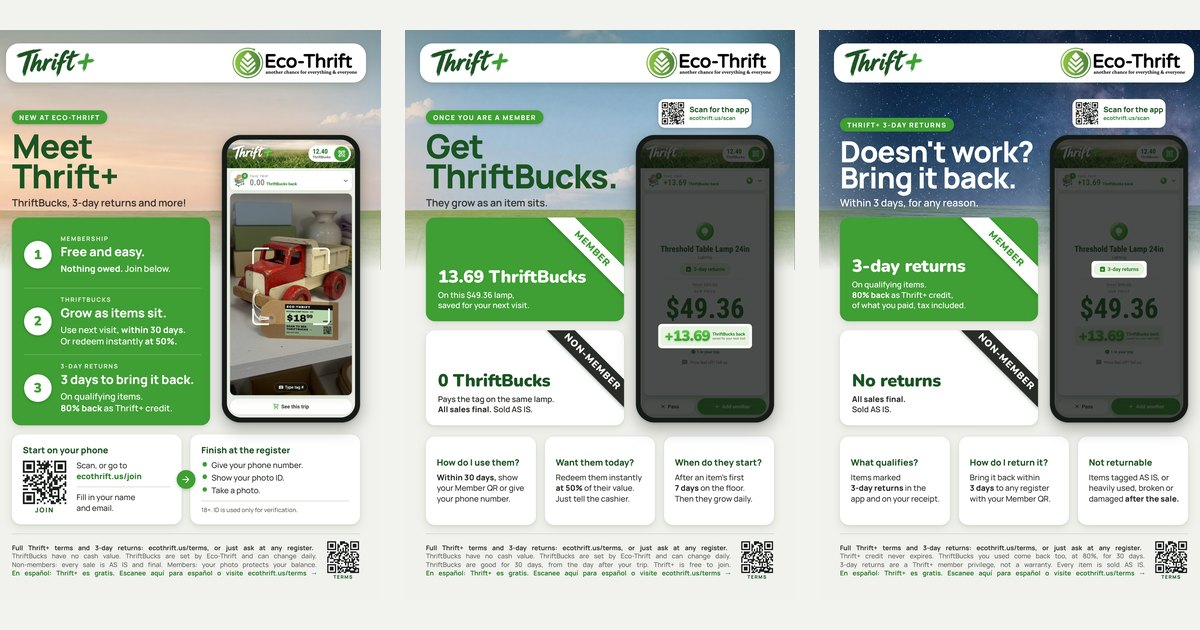
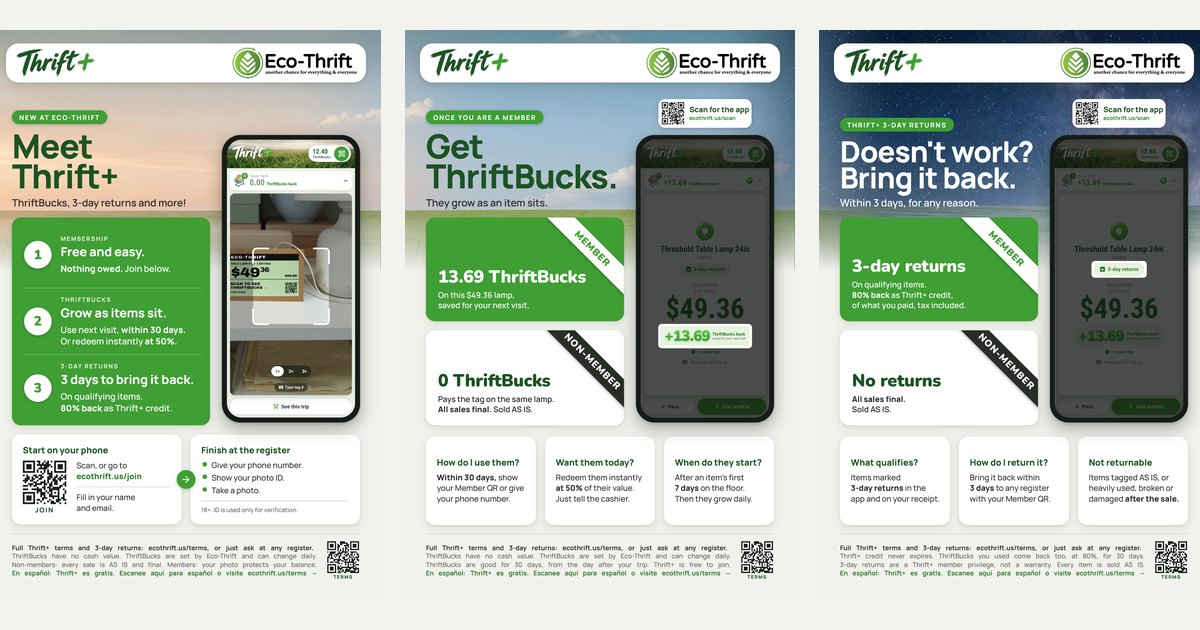
v2.170.1 — The Thrift+ app stays upright when a phone is tilted, and ecothrift.us/account pages load directly
User-facing theme: **The Thrift+ app stays upright when a phone is tilted, and ecothrift.us/account pages load directly (Bill, 2026-10-15).** thrift_plus Phase 4 (app); outside initiatives (website).

### Fixed

- **The scanner stays in portrait:** turning a phone sideways no longer re-lays the app out. The page turns itself back so it stays fixed to the phone, like a portrait-locked app (camera preview and swipes included); the home-screen app asks the phone to lock portrait too. Tablets and computers are unchanged.
- **ecothrift.us/account pages** (sign-in, history, messages) load directly and on refresh; before, an old Shopify redirect sent every /account address to the home page. Shopify's old /account/login and /register now open the sign-in, and /account/orders and /addresses the account page.
- **What is Thrift+? and the home band** show the final posters (poster 1 now scans the Threshold lamp's label) and the new phone picture.

Changed region(s): [[0.185, 0.3016, 0.3083, 0.6333]]

diff --git a/frontend/src/pages/thriftplus/scanner/portraitLock.ts b/frontend/src/pages/thriftplus/scanner/portraitLock.ts
@@ -1,0 +1,78 @@
+/**
+ * The scanner stays upright on the phone (owner 2026-10-15: "customers tilt phone to scan and it reorients, it's a
+ * mess"). A web page in a browser tab can't lock its orientation, so when a phone is turned sideways the page turns
+ * itself back by the same angle: it looks and behaves like a portrait-locked app, camera preview included. The
+ * home-screen app also asks the phone to lock portrait (and its manifest says portrait).
+ *
+ * Only phones turn (a touch screen with a short side under 600 px); tablets and computers are left alone. The angle
+ * comes from the screen, never the viewport, so the on-screen keyboard can't trigger it.
+ */
+import { useEffect, useState } from 'react';
+
+/** How far the page turns back (CSS degrees, clockwise): 0 upright, -90 or 90 when the phone is sideways. */
+export type Turn = 0 | 90 | -90;
+
+let current: Turn = 0;
+
+/** The page's turn for a screen angle (0, 90, 180 or 270; iOS also -90) on a phone. */
+export function turnFor(angle: number, phone: boolean): Turn {
+  if (!phone) return 0;
+  const a = ((angle % 360) + 360) % 360;
+  if (a === 90) return -90;
+  if (a === 270) return 90;
+  return 0;
+}
+
+function screenAngle(): number {
+  const so = typeof screen !== 'undefined' ? screen.orientation : undefined;
+  if (so && typeof so.angle === 'number') return so.angle;
+  const legacy = (window as Window & { orientation?: number }).orientation;
+  if (typeof legacy === 'number') return legacy;
+  return typeof screen !== 'undefined' && screen.width > screen.height ? 90 : 0;
+}
+
+function isPhone(): boolean {
+  if (typeof window === 'undefined' || typeof screen === 'undefined') return false;
+  const coarse = window.matchMedia?.('(pointer: coarse)').matches ?? false;
+  return coarse && Math.min(screen.width, screen.height) < 600;
+}
+
+/** The turn now, kept current by `usePortraitTurn` (pointer math reads it). */
+export function currentTurn(): Turn {
+  return current;
+}
+
+/**
+ * A pointer's position in the page's own (upright) frame, so swipes measured left/right still mean the phone's
+ * left/right while the page is turned. Only the difference between two positions matters.
+ */
+export function localPoint(e: { clientX: number; clientY: number }, turn: Turn = current): { x: number; y: number } {
+  if (turn === -90) return { x: -e.clientY, y: e.clientX };
+  if (turn === 90) return { x: e.clientY, y: -e.clientX };
+  return { x: e.clientX, y: e.clientY };
+}
+
+export function usePortraitTurn(): Turn {
+  const [turn, setTurn] = useState<Turn>(() => (current = turnFor(screenAngle(), isPhone())));
+  useEffect(() => {
+    const update = () => {
+      current = turnFor(screenAngle(), isPhone());
+      setTurn(current);
+    };
+    const so = screen.orientation;
+    so?.addEventListener?.('change', update);
+    window.addEventListener('orientationchange', update);
+    window.addEventListener('resize', update);
+    // The home-screen app can lock for real (browsers refuse it in a tab; that's fine, the turn covers it).
+    const standalone = window.matchMedia?.('(display-mode: standalone)').matches;
+    const lockable = so as (ScreenOrientation & { lock?: (o: string) => Promise<void> }) | undefined;
+    if (standalone && lockable?.lock) lockable.lock('portrait').catch(() => undefined);
+    return () => {
+      so?.removeEventListener?.('change', update);
+      window.removeEventListener('orientationchange', update);
+      window.removeEventListener('resize', update);
+      current = 0;
+    };
+  }, []);
+  return turn;
+}

diff --git a/frontend/src/pages/thriftplus/scanner/tripUi.tsx b/frontend/src/pages/thriftplus/scanner/tripUi.tsx
@@ -4,6 +4,7 @@
  * quantity control. The look is the scanner's own (scannerTheme.tsx).
  */
 import { useEffect, useRef, useState, type PointerEvent as ReactPointerEvent } from 'react';
+import { localPoint } from './portraitLock';
 import { Box, ButtonBase } from '@mui/material';
 import AddRounded from '@mui/icons-material/AddRounded';
 import AssignmentReturnRounded from '@mui/icons-material/AssignmentReturnRounded';
@@ -262,14 +263,14 @@ export function SwipeRow({ children, onRemove, label, onTap }: { children: React
       </Box>
       <Box
         onPointerDown={(e) => {
-          drag.current = { id: e.pointerId, x: e.clientX, y: e.clientY, on: false };
+          drag.current = { id: e.pointerId, x: localPoint(e).x, y: localPoint(e).y, on: false };
         }}
         onPointerMove={(e) => {
           const d = drag.current;
           if (!d || d.id !== e.pointerId) return;
-          const mx = e.clientX - d.x;
+          const mx = localPoint(e).x - d.x;
           if (!d.on) {
-            if (Math.abs(mx) < 10 || Math.abs(mx) < Math.abs(e.clientY - d.y)) return;
+            if (Math.abs(mx) < 10 || Math.abs(mx) < Math.abs(localPoint(e).y - d.y)) return;
             d.on = true;
             setDragging(true);
             e.currentTarget.setPointerCapture(e.pointerId);
@@ -319,14 +320,14 @@ export function useSwipe(onAdd: (() => void) | null, onPass: () => void) {
   };
   const handlers = {
     onPointerDown: (e: ReactPointerEvent<HTMLDivElement>) => {
-      if (!leaving) drag.current = { id: e.pointerId, x: e.clientX, y: e.clientY, on: false };
+      if (!leaving) drag.current = { id: e.pointerId, x: localPoint(e).x, y: localPoint(e).y, on: false };
     },
     onPointerMove: (e: ReactPointerEvent<HTMLDivElement>) => {
       const d = drag.current;
       if (!d || d.id !== e.pointerId) return;
-      const mx = e.clientX - d.x;
+      const mx = localPoint(e).x - d.x;
       if (!d.on) {
-        if (Math.abs(mx) < 10 || Math.abs(mx) < Math.abs(e.clientY - d.y)) return;
+        if (Math.abs(mx) < 10 || Math.abs(mx) < Math.abs(localPoint(e).y - d.y)) return;
         d.on = true;
         setDragging(true);
         e.currentTarget.setPointerCapture(e.pointerId);

diff --git a/frontend/src/pages/thriftplus/scanner/ThriftPlusScannerPage.tsx b/frontend/src/pages/thriftplus/scanner/ThriftPlusScannerPage.tsx
@@ -16,14 +16,16 @@ import { isOpen, setPreviewCode, type SignInPurpose } from '../../../api/thriftP
 import { ResetPasswordScreen } from './AccountScreens';
 import { SignInScreen } from './SignInScreen';
 import { TripScanner } from './TripScanner';
-import { UNIT_CSS, sc, useScannerFonts } from './scannerTheme';
+import { UNIT_CSS, UNIT_CSS_TURNED, sc, useScannerFonts } from './scannerTheme';
 import { installScannerHead } from './installApp';
+import { usePortraitTurn } from './portraitLock';
 import { loadDetector } from './useQrCamera';
 import { useSignIn, useThriftPlusSession } from './useThriftPlus';
 
 const TYPE_ONLY_KEY = 'tp-type-only';
 
 export default function ThriftPlusScannerPage() {
+  const turn = usePortraitTurn();
   useScannerFonts();
   const [pageParams, setPageParams] = useSearchParams();
   const resetToken = pageParams.get('reset');
@@ -102,15 +104,18 @@ export default function ThriftPlusScannerPage() {
         bgcolor: '#e6e7e1',
         display: 'flex',
         justifyContent: 'center',
-        '--u': UNIT_CSS,
+        overflow: 'hidden',
+        '--u': turn ? UNIT_CSS_TURNED : UNIT_CSS,
       }}
     >
       <Box
+        data-turn={turn}
         sx={{
-          position: 'relative',
-          width: '100%',
-          maxWidth: 480,
-          height: '100dvh',
+          // A sideways phone: the page turns back so it stays upright on the phone (owner 2026-10-15).
+          ...(turn
+            ? { position: 'absolute', top: '50%', left: '50%', width: 'min(100dvh, 480px)', height: '100vw',
+                transform: `translate(-50%, -50%) rotate(${turn}deg)` }
+            : { position: 'relative', width: '100%', maxWidth: 480, height: '100dvh' }),
           overflow: 'hidden',
           display: 'flex',
           flexDirection: 'column',

diff --git a/frontend/src/pages/thriftplus/scanner/portraitLock.test.ts b/frontend/src/pages/thriftplus/scanner/portraitLock.test.ts
@@ -1,0 +1,27 @@
+import { describe, expect, it } from 'vitest';
+import { localPoint, turnFor } from './portraitLock';
+
+describe('the scanner stays upright on a sideways phone (owner 2026-10-15)', () => {
+  it('turns the page back by the screen angle on phones only', () => {
+    expect(turnFor(0, true)).toBe(0);
+    expect(turnFor(180, true)).toBe(0);
+    expect(turnFor(90, true)).toBe(-90);
+    expect(turnFor(270, true)).toBe(90);
+    expect(turnFor(-90, true)).toBe(90); // older iPhones say -90
+    expect(turnFor(90, false)).toBe(0); // tablets and computers are left alone
+  });
+
+  it("measures swipes in the phone's own left and right while turned", () => {
+    // Turned -90: the phone's "right" is the screen's "up".
+    const a = localPoint({ clientX: 100, clientY: 300 }, -90);
+    const b = localPoint({ clientX: 100, clientY: 200 }, -90);
+    expect(b.x - a.x).toBe(100);
+    expect(b.y - a.y).toBe(0);
+    // Turned 90: the phone's "right" is the screen's "down".
+    const c = localPoint({ clientX: 100, clientY: 200 }, 90);
+    const d = localPoint({ clientX: 100, clientY: 300 }, 90);
+    expect(d.x - c.x).toBe(100);
+    // Upright: unchanged.
+    expect(localPoint({ clientX: 5, clientY: 7 }, 0)).toEqual({ x: 5, y: 7 });
+  });
+});

diff --git a/frontend/src/pages/thriftplus/scanner/scannerTheme.tsx b/frontend/src/pages/thriftplus/scanner/scannerTheme.tsx
@@ -48,6 +48,8 @@ export const u = (n: number) => `calc(${n} * var(--u))`;
 
 /** Width-driven scale, capped so the fixed parts still fit a short browser window. */
 export const UNIT_CSS = 'min(calc(min(100vw, 480px) / 900), calc(100dvh / 1350))';
+/** The same unit while the page is turned back upright on a sideways phone (portraitLock.ts): the sides swap. */
+export const UNIT_CSS_TURNED = 'min(calc(min(100dvh, 480px) / 900), calc(100vw / 1350))';
 
 export const sc = {
   page: '#f2f2ee',

diff --git a/apps/core/tests/test_public_passthrough.py b/apps/core/tests/test_public_passthrough.py
@@ -29,3 +29,21 @@ class ScannerPassthroughTests(SimpleTestCase):
         for host in ('www.ecothrift.us', 'ecothrift.us'):
             response = self._get(host, '/i/k3X9pQr')
             self.assertEqual((response.status_code, response.content), (200, b'dashboard'), host)
+
+
+class AccountPagesTests(SimpleTestCase):
+    """Owner 2026-10-15: the site's own account pages load directly; only Shopify's old account addresses move."""
+
+    def test_the_sites_account_pages_are_not_rewritten(self):
+        from apps.core.middleware import rewrite_legacy_path
+
+        for path in ('/account', '/account/', '/account/sign-in', '/account/history', '/account/messages'):
+            self.assertIsNone(rewrite_legacy_path(path), path)
+
+    def test_shopify_account_addresses_move(self):
+        from apps.core.middleware import rewrite_legacy_path
+
+        self.assertEqual(rewrite_legacy_path('/account/login'), '/account/sign-in')
+        self.assertEqual(rewrite_legacy_path('/account/register'), '/account/sign-in')
+        self.assertEqual(rewrite_legacy_path('/account/orders/abc123'), '/account')
+        self.assertEqual(rewrite_legacy_path('/account/addresses'), '/account')

diff --git a/apps/core/middleware.py b/apps/core/middleware.py
@@ -86,7 +86,14 @@ def rewrite_legacy_path(path: str) -> str | None:
     if path == '/cart':
         return '/shop'
     if path == '/account' or path.startswith('/account/'):
-        return '/'
+        # The site's own account pages (/account, /account/sign-in, /history, /messages) load as they are (owner
+        # 2026-10-15); only Shopify's old account addresses move.
+        sub = path[len('/account'):].strip('/').split('/')[0].lower()
+        if sub in ('login', 'register'):
+            return '/account/sign-in'
+        if sub in ('addresses', 'orders', 'activate', 'reset', 'logout'):
+            return '/account'
+        return None
     if path == '/pages':
         return '/'
     if path.startswith('/pages/'):

diff --git a/CHANGELOG.md b/CHANGELOG.md
@@ -1,5 +1,5 @@
-<!-- Line 1 release: ## [2.170.0] -->
-<!-- Last reviewed: 2026-10-15 (2.170.0) -->
+<!-- Line 1 release: ## [2.170.1] -->
+<!-- Last reviewed: 2026-10-15 (2.170.1) -->
 # Changelog
 
 All notable changes to this project are documented here at the **version level**.
@@ -11,6 +11,16 @@ Versioning follows [Semantic Versioning](https://semver.org/).
 ---
 
 ## [Unreleased]
+
+## [2.170.1] - 2026-10-15
+
+User-facing theme: **The Thrift+ app stays upright when a phone is tilted, and ecothrift.us/account pages load directly (Bill, 2026-10-15).** thrift_plus Phase 4 (app); outside initiatives (website).
+
+### Fixed
+
+- **The scanner stays in portrait:** turning a phone sideways no longer re-lays the app out. The page turns itself back so it stays fixed to the phone, like a portrait-locked app (camera preview and swipes included); the home-screen app asks the phone to lock portrait too. Tablets and computers are unchanged.
+- **ecothrift.us/account pages** (sign-in, history, messages) load directly and on refresh; before, an old Shopify redirect sent every /account address to the home page. Shopify's old /account/login and /register now open the sign-in, and /account/orders and /addresses the account page.
+- **What is Thrift+? and the home band** show the final posters (poster 1 now scans the Threshold lamp's label) and the new phone picture.
 
 ## [2.170.0] - 2026-10-15
 
